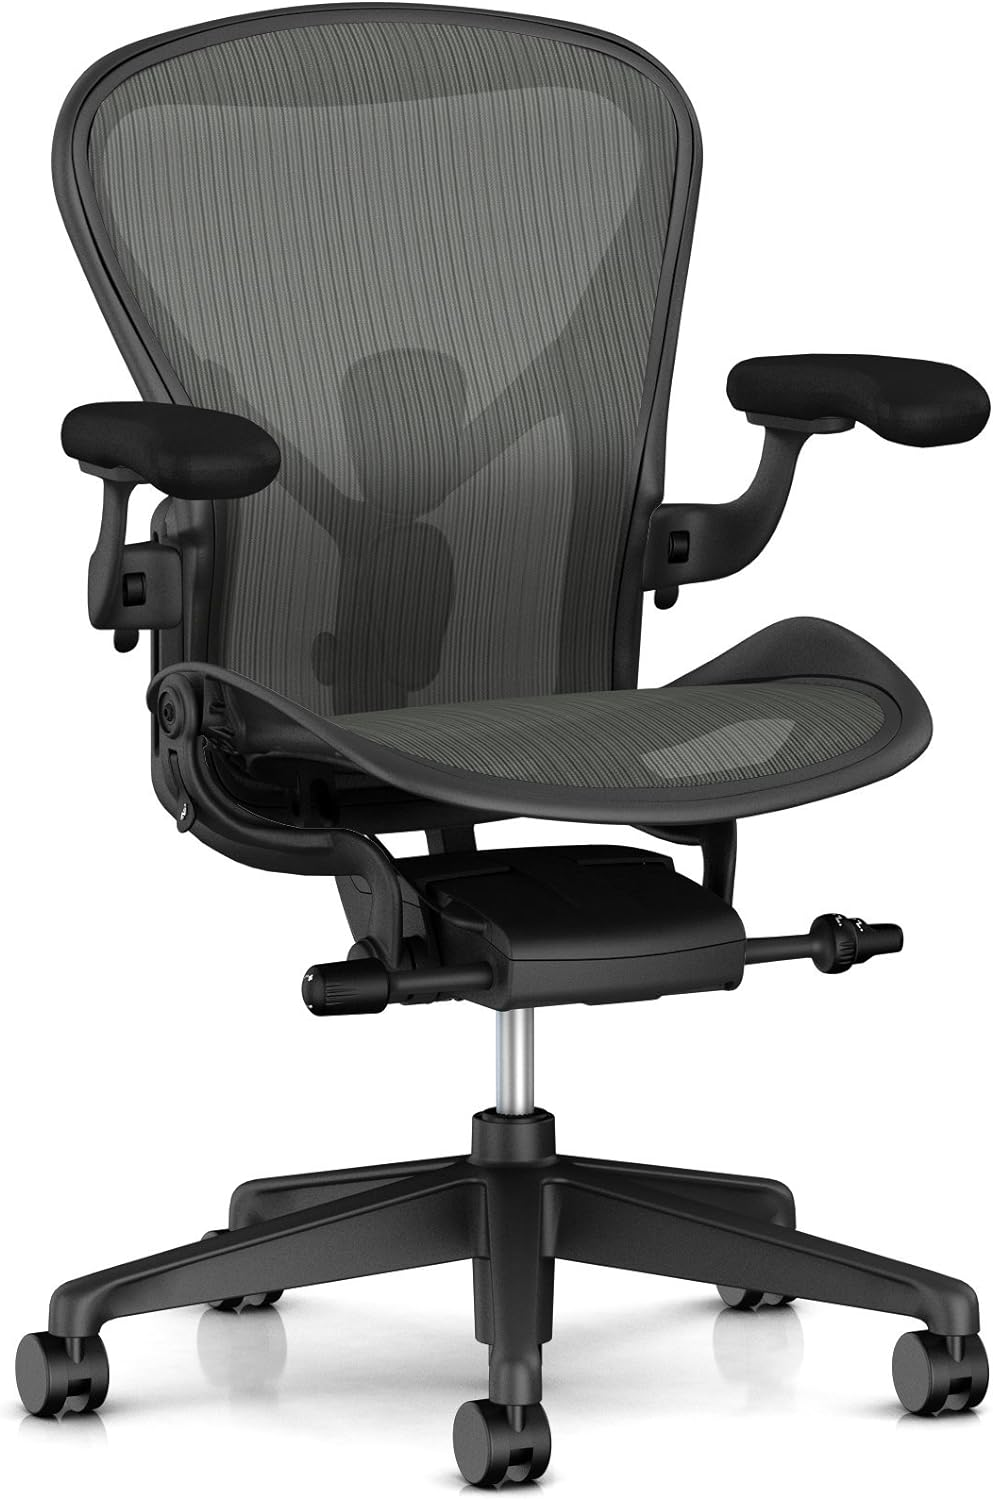
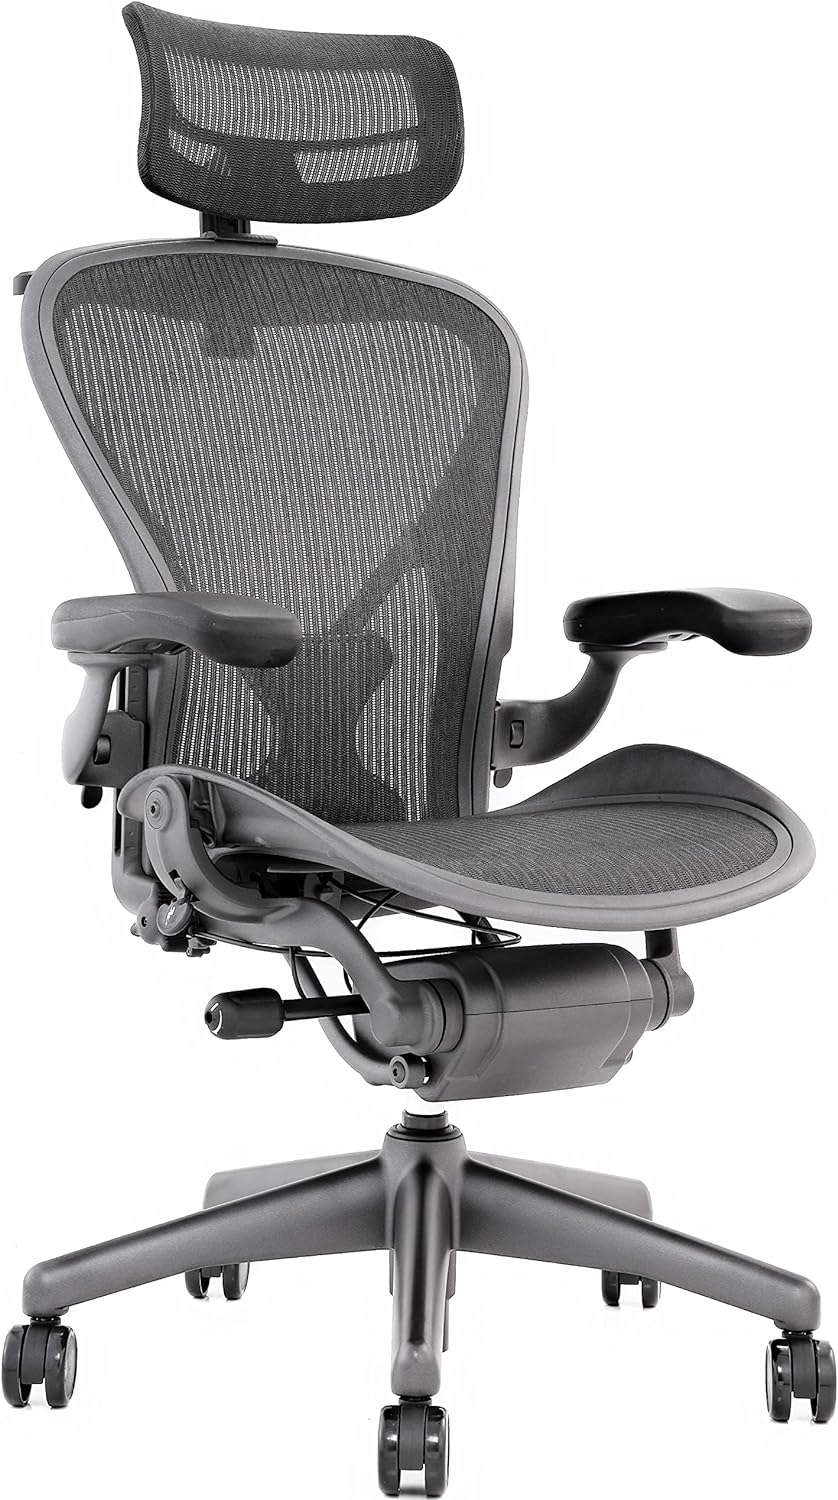
fix product images

diff --git a/fix-mismatched-images.js b/fix-mismatched-images.js
@@ -8,6 +8,8 @@ function sleep(ms) {
 // Products whose image doesn't match — add { slug, search } entries here
 const toFix = [
   { slug: 'herman-miller-aeron-chair', search: 'Herman Miller Aeron Chair ergonomic office' },
+  { slug: 'autel-evo-nano-drone', search: 'Autel EVO Nano+ Drone' },
+  { slug: 'facebook-portal-plus-smart-display', search: 'Facebook Portal Plus Smart Display' },
 ];
 
 const USER_AGENTS = [